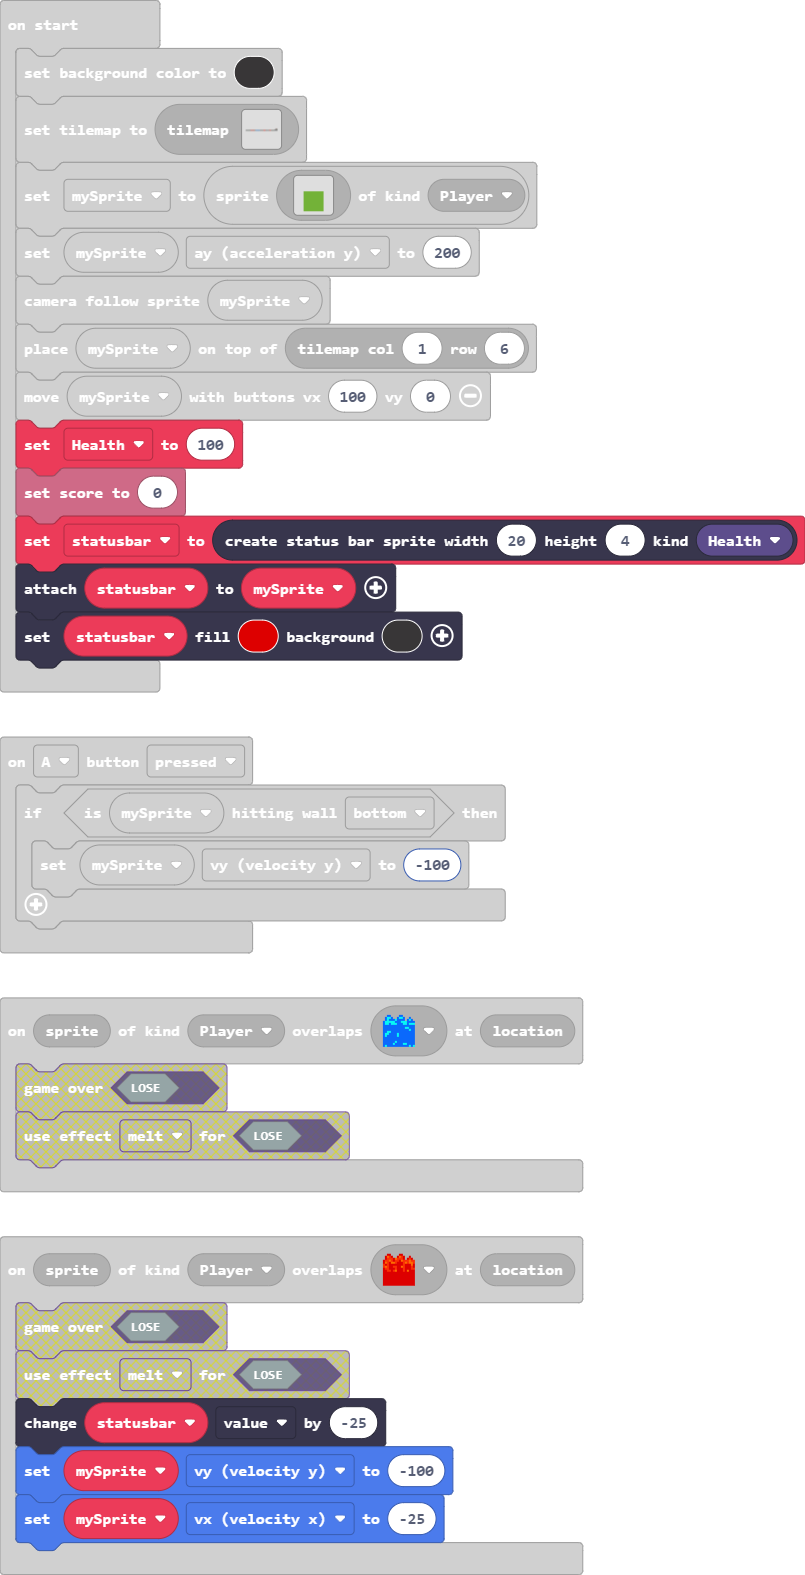
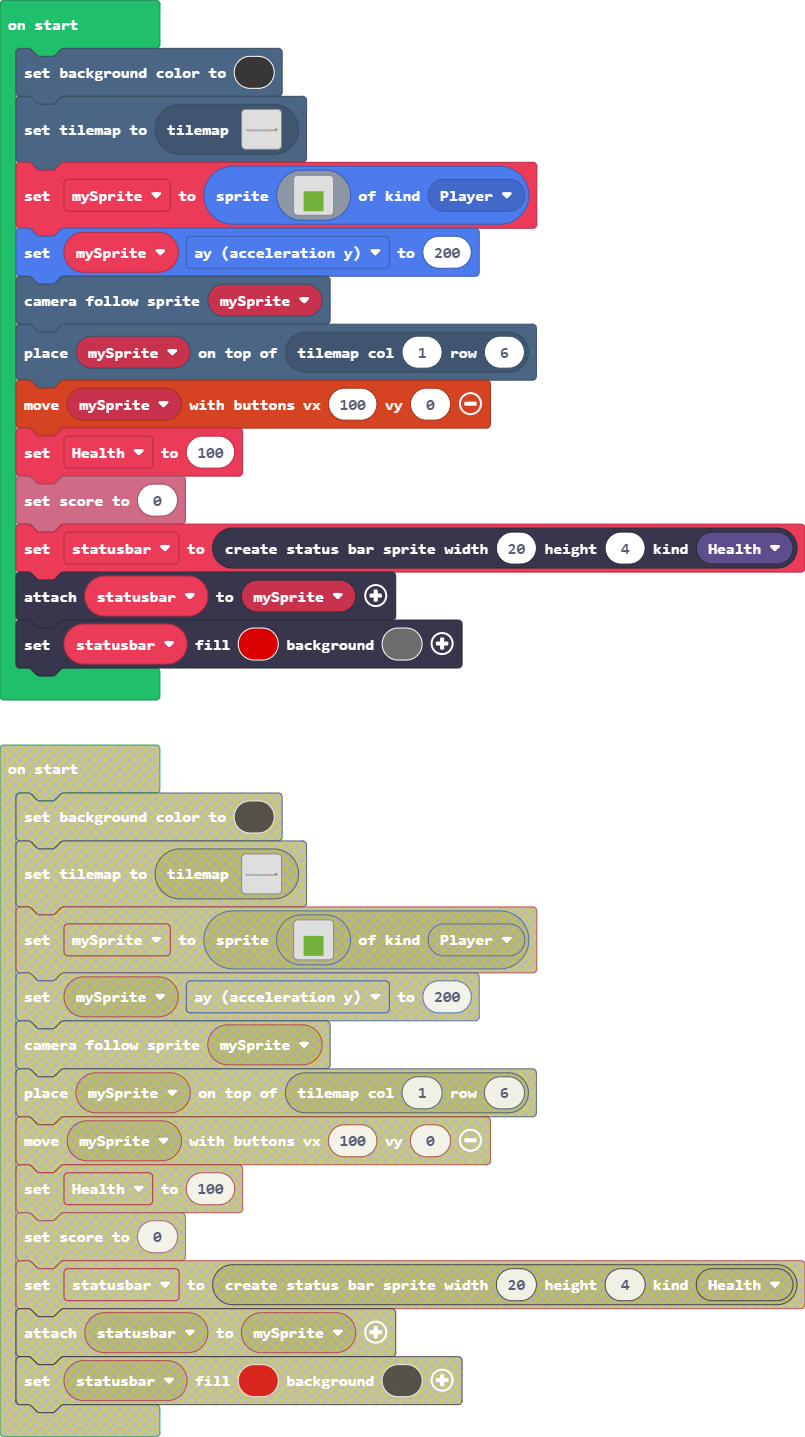
Update main.blocks, main.ts

diff --git a/main.ts b/main.ts
@@ -45,4 +45,4 @@ let Health = 100
 info.setScore(0)
 statusbar = statusbars.create(20, 4, StatusBarKind.Health)
 statusbar.attachToSprite(mySprite)
-statusbar.setColor(15, 10)
+statusbar.setColor(15, 8)
